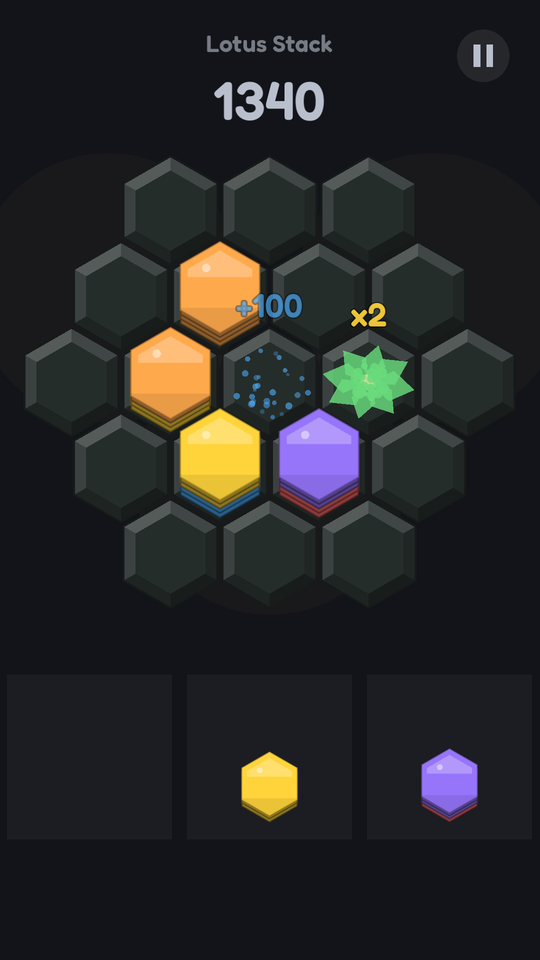
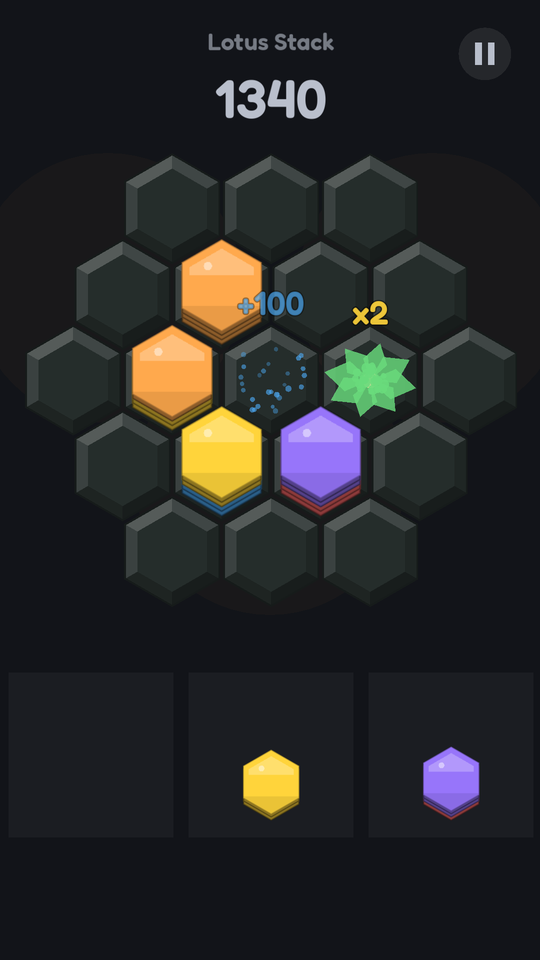
Lotus Stack: new screenshots on site, feature list, privacy update (24 Nov 2026)

diff --git a/lotus-stack/privacy.html b/lotus-stack/privacy.html
@@ -5,7 +5,7 @@
   <meta name="viewport" content="width=device-width, initial-scale=1">
   <title>Privacy Policy · Lotus Stack</title>
   <meta name="description" content="Privacy policy for the Lotus Stack mobile game by Hasdemir Studio.">
-  <link rel="icon" href="../assets/lotus-stack-icon.svg?v=3" type="image/svg+xml">
+  <link rel="icon" href="../assets/lotus-stack-icon.svg?v=4" type="image/svg+xml">
   <link rel="preconnect" href="https://fonts.googleapis.com">
   <link rel="stylesheet" href="https://fonts.googleapis.com/css2?family=Inter:wght@400;600&family=Space+Grotesk:wght@500;700&display=swap">
   <link rel="stylesheet" href="../assets/style.css">
@@ -20,7 +20,7 @@
 
   <main class="wrap legal">
     <h1>Privacy Policy</h1>
-    <p class="meta">Lotus Stack · Hasdemir Studio · Effective date: 20 November 2026</p>
+    <p class="meta">Lotus Stack · Hasdemir Studio · Effective date: 24 November 2026</p>
     <div class="lang-switch"><a href="#en">English</a><a href="#tr">Türkçe</a></div>
 
     <div id="en">
@@ -34,6 +34,8 @@
       <p>Your progress (high score, petals, Goals level progress, unlocked market items, daily streak, daily tasks, login streak, achievements, statistics and settings) is stored only on your device. It is not sent to us. Uninstalling the Game deletes this data.</p>
 
       <p>The "More games" screen downloads the list of our other games (names, short descriptions, icons and Google Play links) from our website, hasdemir.tr. No personal data is sent in this request, and a copy of the list is kept on your device so it can be shown offline.</p>
+
+      <p>The "Rate us" button and the links in the "More games" screen only open a Google Play page (in the Play Store app or your browser). The Game does not send any data when you tap them; what happens next is governed by Google Play's own policies.</p>
 
       <h2>4. Advertising</h2>
       <p>The Game may show ads, including optional rewarded ads that you choose to watch, through Google AdMob, a service provided by Google. To show and measure ads, Google may collect and process information such as your device's advertising ID, IP address, device model, operating system, approximate location (estimated from your IP address), how you interact with ads, and crash and diagnostic information about the ad service. Google uses this information according to its own policies:</p>
@@ -61,7 +63,7 @@
 
     <div id="tr">
       <h1 style="margin-top:64px">Gizlilik Politikası</h1>
-      <p class="meta">Lotus Stack · Hasdemir Studio · Yürürlük tarihi: 20 Kasım 2026</p>
+      <p class="meta">Lotus Stack · Hasdemir Studio · Yürürlük tarihi: 24 Kasım 2026</p>
 
       <h2>1. Biz kimiz</h2>
       <p>Lotus Stack ("Oyun"), Türkiye'de faaliyet gösteren bağımsız geliştirici Hasdemir Studio ("biz") tarafından geliştirilmiştir. Bu politika, Oyun'un hangi bilgileri neden işlediğini açıklar.</p>
@@ -73,6 +75,8 @@
       <p>İlerlemeniz (en yüksek skor, yapraklar, Hedefler seviye ilerlemesi, açılan market ürünleri, günlük seri, günlük görevler, giriş serisi, başarımlar, istatistikler ve ayarlar) yalnızca cihazınızda saklanır ve bize gönderilmez. Oyun'u kaldırdığınızda bu veriler silinir.</p>
 
       <p>"Diğer oyunlarımız" ekranı, diğer oyunlarımızın listesini (adlar, kısa açıklamalar, simgeler ve Google Play bağlantıları) web sitemizden, hasdemir.tr adresinden indirir. Bu istekle kişisel veri gönderilmez; liste, internet yokken de gösterilebilsin diye cihazınızda saklanır.</p>
+
+      <p>"Bizi değerlendir" düğmesi ve "Diğer oyunlarımız" ekranındaki bağlantılar yalnızca bir Google Play sayfasını (Play Store uygulamasında ya da tarayıcınızda) açar. Oyun, bunlara dokunduğunuzda herhangi bir veri göndermez; sonrası Google Play'in kendi politikalarına tabidir.</p>
 
       <h2>4. Reklamlar</h2>
       <p>Oyun, Google tarafından sağlanan Google AdMob hizmeti aracılığıyla, izlemeyi kendi isteğinizle seçtiğiniz ödüllü reklamlar dahil olmak üzere reklam gösterebilir. Google, reklamları göstermek ve ölçmek için cihazınızın reklam kimliği, IP adresi, cihaz modeli, işletim sistemi, IP adresinizden tahmin edilen yaklaşık konumunuz, reklamlarla etkileşiminiz ve reklam hizmetine ait hata ve teşhis bilgileri gibi bilgileri toplayabilir ve işleyebilir. Google bu bilgileri kendi politikalarına göre kullanır:</p>

diff --git a/lotus-stack/index.html b/lotus-stack/index.html
@@ -5,7 +5,7 @@
   <meta name="viewport" content="width=device-width, initial-scale=1">
   <title>Lotus Stack · Hasdemir Studio</title>
   <meta name="description" content="Lotus Stack is a calm hexagon sorting puzzle game by Hasdemir Studio.">
-  <link rel="icon" href="../assets/lotus-stack-icon.svg?v=3" type="image/svg+xml">
+  <link rel="icon" href="../assets/lotus-stack-icon.svg?v=4" type="image/svg+xml">
   <link rel="preconnect" href="https://fonts.googleapis.com">
   <link rel="stylesheet" href="https://fonts.googleapis.com/css2?family=Inter:wght@400;600&family=Space+Grotesk:wght@500;700&display=swap">
   <link rel="stylesheet" href="../assets/style.css">
@@ -30,9 +30,9 @@
     <section>
       <div class="wrap">
         <div class="shots">
-          <img src="../assets/ls-menu.png" alt="Lotus Stack main menu">
-          <img src="../assets/ls-bloom.png" alt="A lotus opening in a chain bloom with a x2 multiplier on a hexagon garden">
-          <img src="../assets/ls-market.png" alt="The market with ambiences such as Zen, Chakra, Bamboo, Fireflies and Snow">
+          <img src="../assets/ls-menu.png?v=4" alt="Lotus Stack main menu">
+          <img src="../assets/ls-bloom.png?v=4" alt="A lotus opening in a chain bloom with a x2 multiplier on a hexagon garden">
+          <img src="../assets/ls-market.png?v=4" alt="The market with ambiences such as Zen, Chakra, Bamboo, Fireflies and Snow">
         </div>
       </div>
     </section>
@@ -46,7 +46,8 @@
           <li><b>Classic, Goals and Daily</b>Endless Classic with growing colors, endless Goals levels with move limits and a new Daily puzzle every day with a streak counter.</li>
           <li><b>Soft sounds</b>Every color has its own gentle note. No timers and no loud effects.</li>
           <li><b>Mix your garden</b>A market of 30 styles: 10 stone looks, 10 board looks and 10 ambiences such as Zen, Chakra, Sakura, Bamboo, Fireflies and Snow. Plus daily tasks, a login streak and thirteen achievements.</li>
-          <li><b>English and Turkish</b>Optional rewarded ads. No pushy pop-ups.</li>
+          <li><b>Your round is saved</b>Close the game any time and continue exactly where you left off, in every mode. Plays offline.</li>
+          <li><b>More from the studio</b>A built-in "More games" screen shows our other games. English and Turkish, optional rewarded ads and no pushy pop-ups.</li>
         </ul>
       </div>
     </section>
